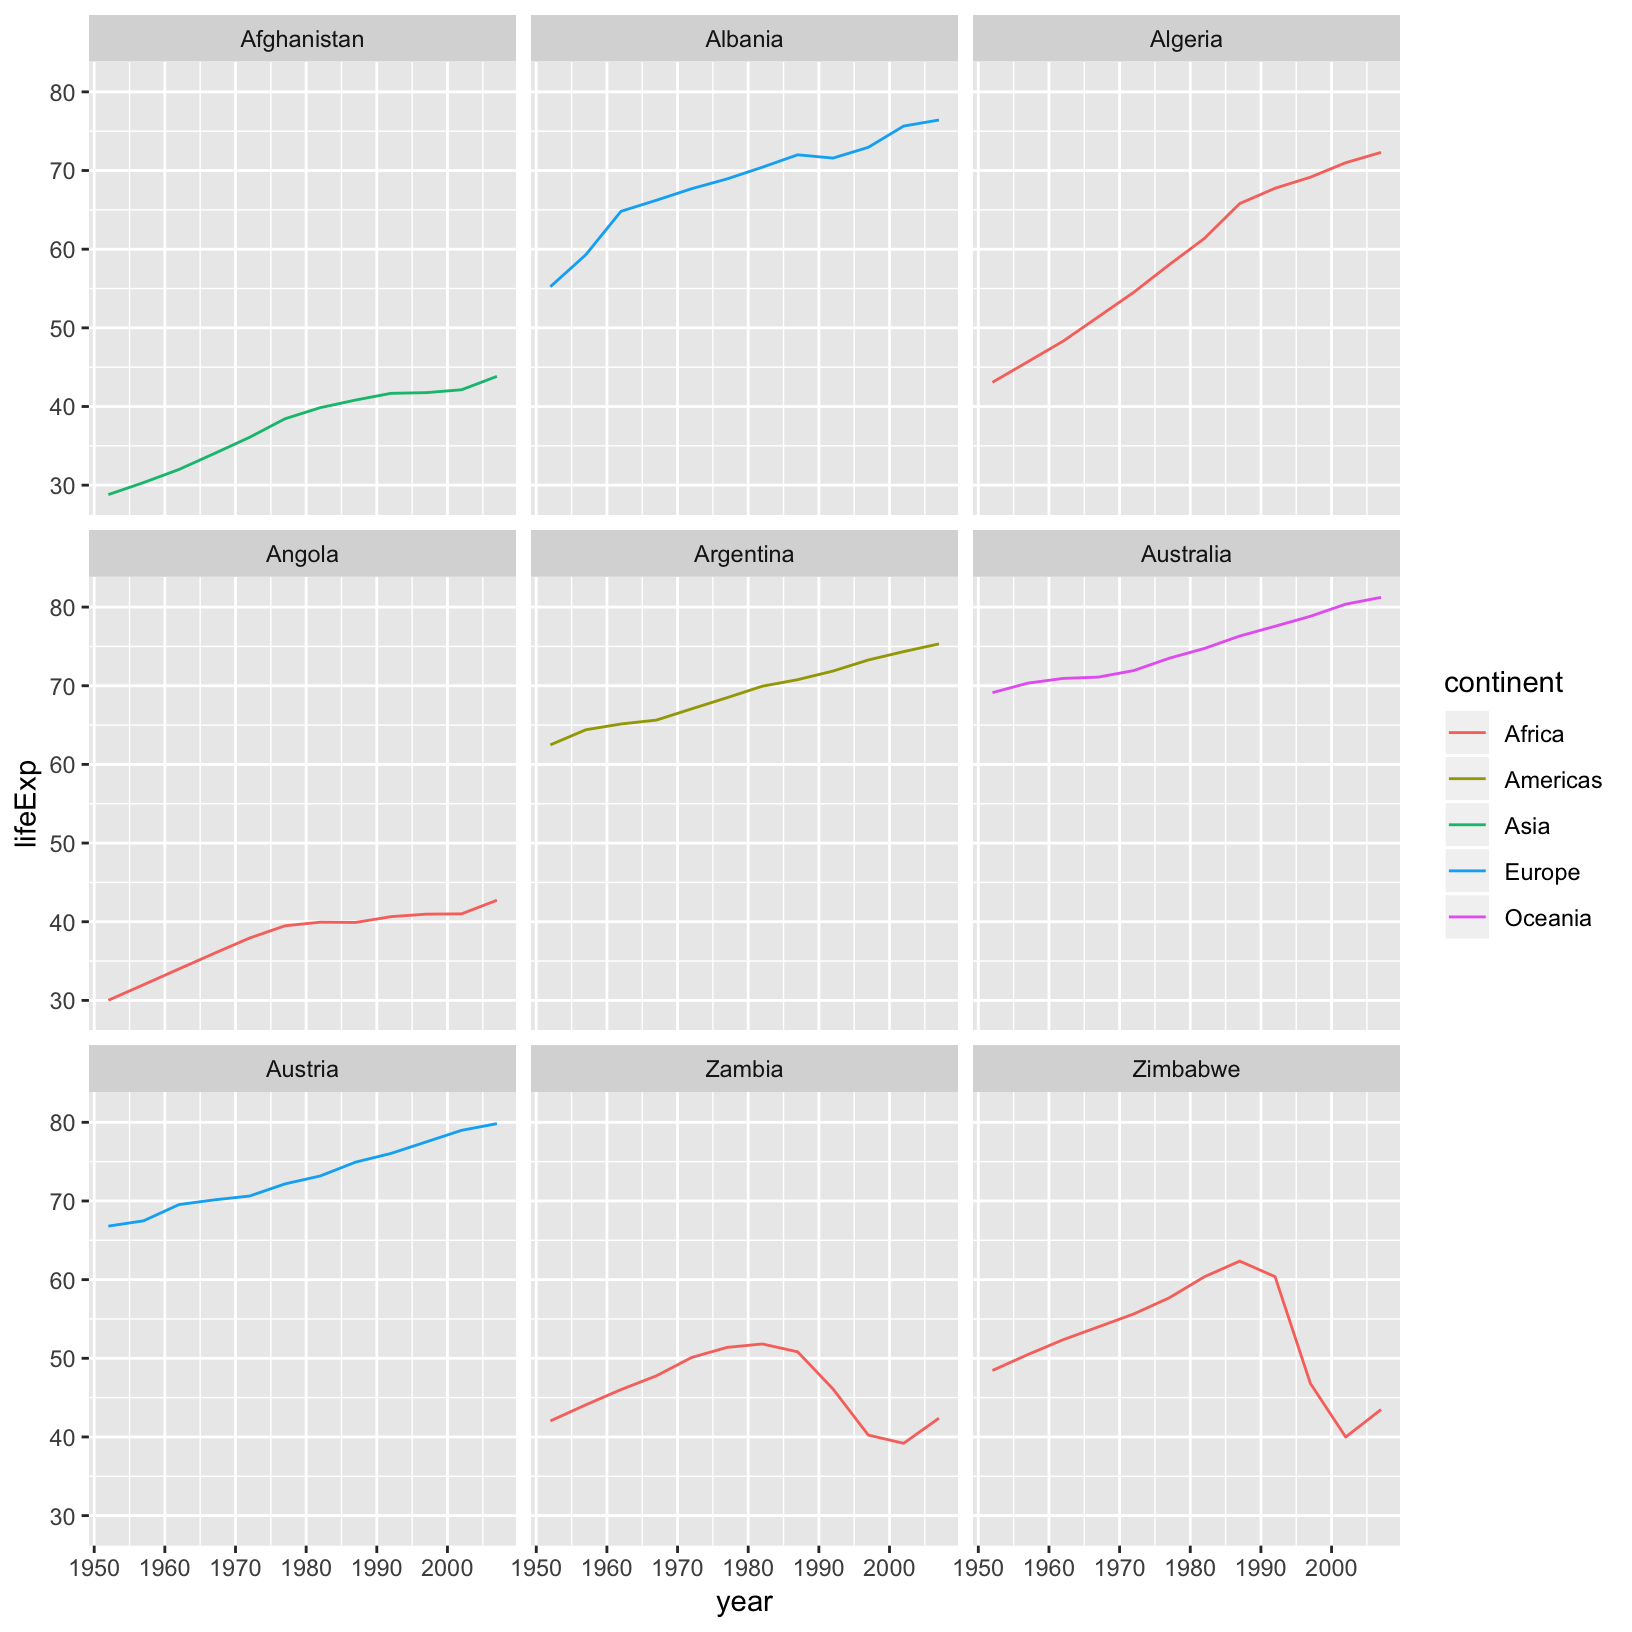
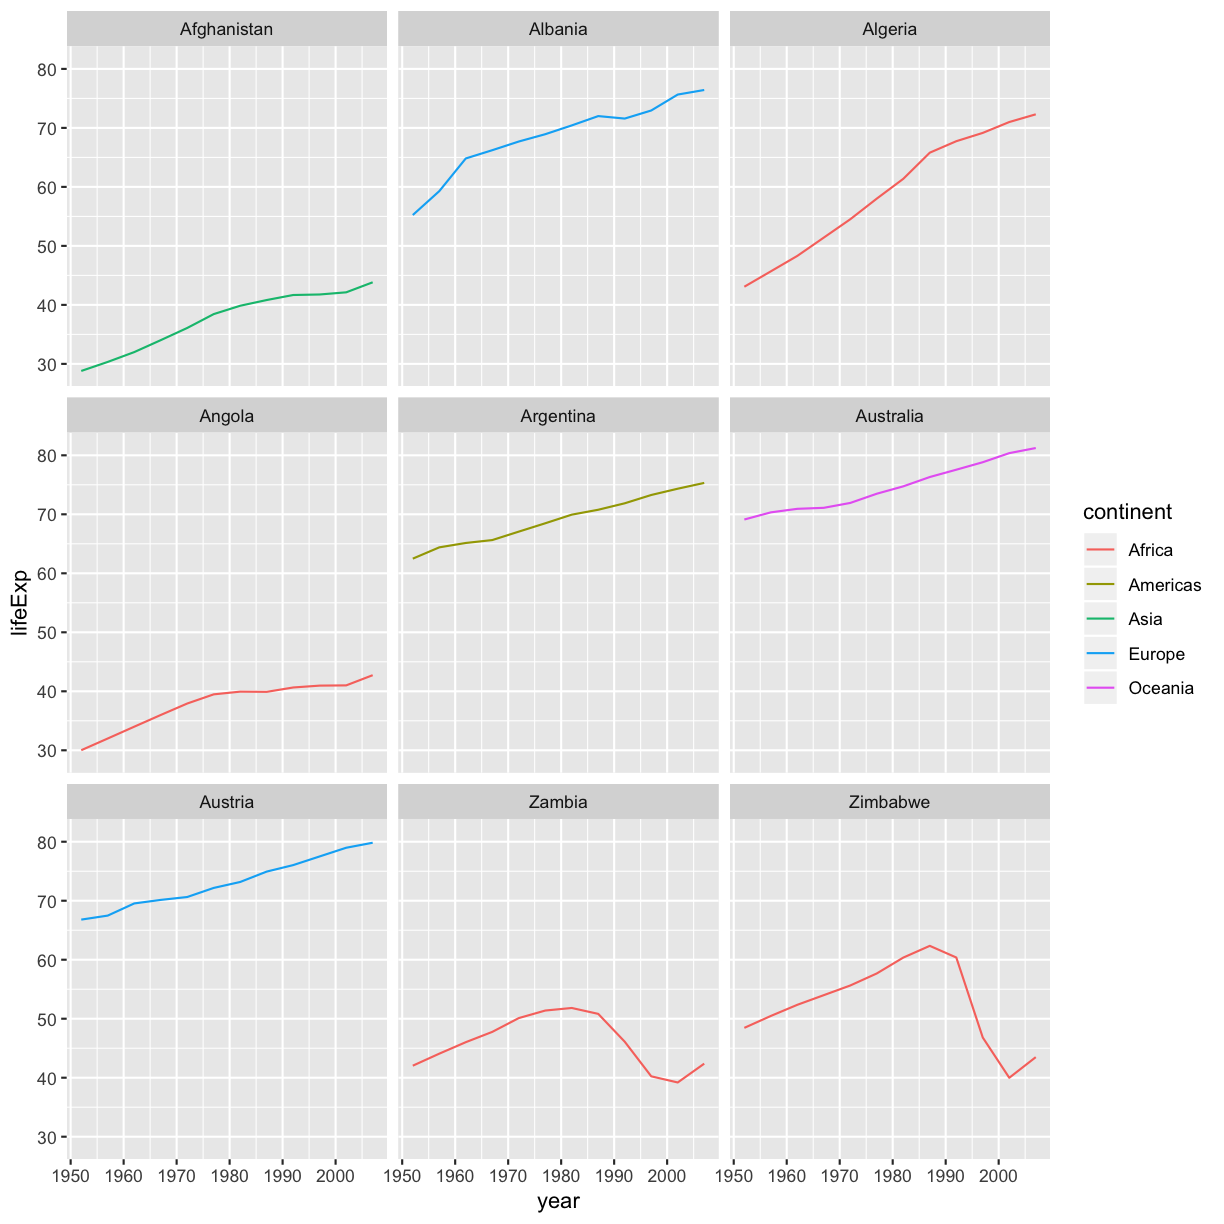
build after make serve

diff --git a/_episodes/13-dplyr.md b/_episodes/13-dplyr.md
@@ -1,22 +1,23 @@
 ---
 # Please do not edit this file directly; it is auto generated.
 # Instead, please edit 13-dplyr.md in _episodes_rmd/
-title: Dataframe Manipulation with dplyr
+title: "Dataframe Manipulation with dplyr"
+keypoints:
+- Use the `dplyr` package to manipulate dataframes.
+- Use `select()` to choose variables from a dataframe.
+- Use `filter()` to choose data based on values.
+- Use `group_by()` and `summarize()` to work with subsets of data.
+- Use `mutate()` to create new variables.
+- use `arrange()` to arrange rows.
+objectives:
+- ' To be able to use the six main dataframe manipulation ''verbs'' with pipes in  `dplyr`.'
+- ' To understand how `group_by()` and `summarize()` can be combined to summarize
+  datasets.'
+- ' Be able to analyze a subset of data using logical filtering.'
+questions: How can I manipulate dataframes without repeating myself?
+source: Rmd
 teaching: 40
 exercises: 15
-questions:
-- "How can I manipulate dataframes without repeating myself?"
-objectives:
-- " To be able to use the six main dataframe manipulation 'verbs' with pipes in  `dplyr`."
-- " To understand how `group_by()` and `summarize()` can be combined to summarize datasets."
-- " Be able to analyze a subset of data using logical filtering."
-keypoints:
-- "Use the `dplyr` package to manipulate dataframes."
-- "Use `select()` to choose variables from a dataframe."
-- "Use `filter()` to choose data based on values."
-- "Use `group_by()` and `summarize()` to work with subsets of data."
-- "Use `mutate()` to create new variables."
-source: Rmd
 ---
 
 
@@ -87,12 +88,16 @@ pipes (`%>%`) to combine them.
 3. `group_by()`
 4. `summarize()`
 5. `mutate()`
+6. `arrange()`
 
-If you have have not installed this package earlier, please do so:
+If you have have not installed this package earlier, please do so by installing dplyr package or an umbrella package, tidyverse.
 
 
 ~~~
 install.packages('dplyr')
+
+## alternately install tidyverse package
+install.package("tidyverse")
 ~~~
 {: .language-r}
 
@@ -103,6 +108,13 @@ Now let's load the package:
 library("dplyr")
 ~~~
 {: .language-r}
+
+
+
+~~~
+Warning: package 'dplyr' was built under R version 3.4.4
+~~~
+{: .error}
 
 ## Using select()
 
@@ -515,12 +527,26 @@ starts.with <- substr(gapminder$country, start = 1, stop = 1)
 # Filter countries that start with "A" or "Z"
 az.countries <- gapminder[starts.with %in% c("A", "Z"), ]
 # Make the plot
+library(ggplot2)
+~~~
+{: .language-r}
+
+
+
+~~~
+Warning: package 'ggplot2' was built under R version 3.4.4
+~~~
+{: .error}
+
+
+
+~~~
 ggplot(data = az.countries, aes(x = year, y = lifeExp, color = continent)) +
   geom_line() + facet_wrap( ~ country)
 ~~~
 {: .language-r}
 
-<img src="../fig/rmd-13-unnamed-chunk-21-1.png" title="plot of chunk unnamed-chunk-21" alt="plot of chunk unnamed-chunk-21" style="display: block; margin: auto;" />
+<img src="../fig/rmd-13-unnamed-chunk-21-1.png" title="plot of chunk unnamed-chunk-21" alt="plot of chunk unnamed-chunk-21" width="612" style="display: block; margin: auto;" />
 
 This code makes the right plot but it also creates some variables (`starts.with`
 and `az.countries`) that we might not have any other uses for. Just as we used
@@ -544,7 +570,7 @@ gapminder %>%
 ~~~
 {: .language-r}
 
-<img src="../fig/rmd-13-unnamed-chunk-22-1.png" title="plot of chunk unnamed-chunk-22" alt="plot of chunk unnamed-chunk-22" style="display: block; margin: auto;" />
+<img src="../fig/rmd-13-unnamed-chunk-22-1.png" title="plot of chunk unnamed-chunk-22" alt="plot of chunk unnamed-chunk-22" width="612" style="display: block; margin: auto;" />
 
 Using `dplyr` functions also helps us simplify things, for example we could
 combine the first two steps:
@@ -561,7 +587,7 @@ gapminder %>%
 ~~~
 {: .language-r}
 
-<img src="../fig/rmd-13-unnamed-chunk-23-1.png" title="plot of chunk unnamed-chunk-23" alt="plot of chunk unnamed-chunk-23" style="display: block; margin: auto;" />
+<img src="../fig/rmd-13-unnamed-chunk-23-1.png" title="plot of chunk unnamed-chunk-23" alt="plot of chunk unnamed-chunk-23" width="612" style="display: block; margin: auto;" />
 
 > ## Advanced Challenge
 >
